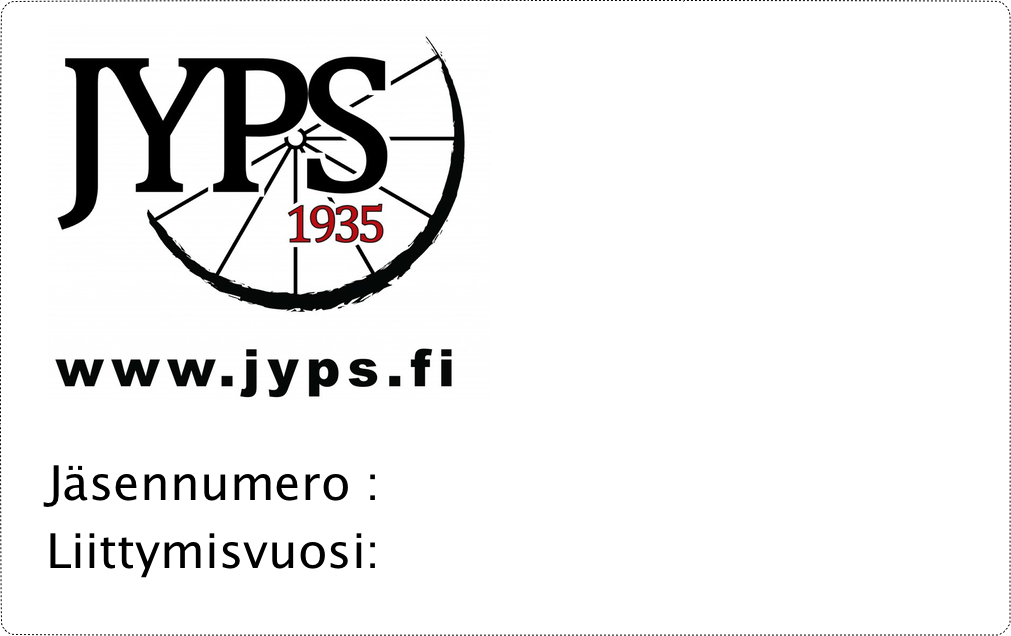
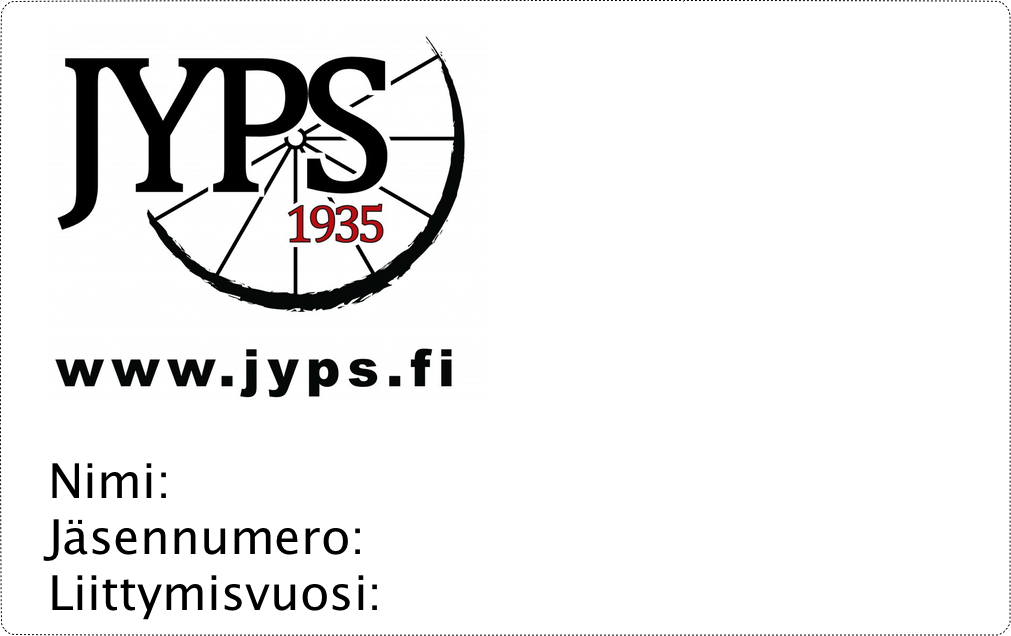
new memberfee stuff for year 2015

Changed region(s): [[0.0307, 0.717, 0.368, 0.9858]]

diff --git a/src/JYPS/RegisterBundle/Controller/MemberController.php b/src/JYPS/RegisterBundle/Controller/MemberController.php
@@ -185,8 +185,9 @@ private function generateMembershipCard(Member $member)
   $join_year = $member->getMembershipStartDate()->format('Y');
   $font = $this->get('kernel')->locateResource('@JYPSRegisterBundle/Resources/public/fonts/LucidaGrande.ttf');
   
-  imagettftext($base_image, 38, 0, 390, 505, $black, $font, $memberid);
-  imagettftext($base_image, 38, 0, 390, 570, $black, $font, $join_year);
+  imagettftext($base_image, 38, 0, 190, 500, $black, $font, $member->getFullName());
+  imagettftext($base_image, 38, 0, 390, 555, $black, $font, $memberid);
+  imagettftext($base_image, 38, 0, 390, 610, $black, $font, $join_year);
   
   /*qr code to image & serialize json for qr code*/ 
   $member_data = array('member_id'=>$member->getMemberId(),
@@ -465,10 +466,11 @@ if ($form->isValid()) {
   $em->persist($member);
   $em->persist($memberfee);
   $em->flush();
+
   $bankaccount = $this->getDoctrine()
   ->getRepository('JYPSRegisterBundle:SystemParameter')
   ->findOneBy(array('key' => 'BankAccount'));
-
+  
   //Send mail here, if user exits confirmation page too fast no mail is sent.
   //1) List join
   if($member->getEmail() != "") {
@@ -486,10 +488,10 @@ if ($form->isValid()) {
     ->attach(\Swift_Attachment::fromPath($membership_card))
     ->setBody($this->renderView(
       'JYPSRegisterBundle:Member:join_member_email_base.txt.twig',
-      array('member'=>$member,
-            'memberfee'=>$memberfee,
-            'bankaccount'=>$bankaccount,
-            'virtualbarcode'=>$memberfee->getVirtualBarCode())));
+       array('member'=>$member,
+              'memberfee'=>$memberfee,
+              'bankaccount'=>$bankaccount,
+              'virtualbarcode'=>$memberfee->getVirtualBarcode($bankaccount))));
 
     $this->get('mailer')->send($message);
     }

diff --git a/src/JYPS/RegisterBundle/Controller/MemberFeeController.php b/src/JYPS/RegisterBundle/Controller/MemberFeeController.php
@@ -142,10 +142,18 @@ class MemberFeeController extends Controller
 		$total_qty = 0;
 
 		foreach($members as $member) {
-		    /*from junior to adult member if needed*/
-
+		    
 			$memberFeeConfig = $member->getMemberType();
+			/*from junior to adult member if needed*/
+            if($memberFeeConfig->getMembertype() == 2 &&
+               date('Y') - $member->getBirthYear() > 17) {
+			   $member->setMemberType(1);
+			   $em = $this->getDoctrine()->getManager();
+			   $em->persist($member);
+			   $em->flush($member);
+            }
 
+			
 			//Do not create fees for membertypes where it's prevented
 			if( $memberFeeConfig->getCreatefees() == "JOIN_ONLY") {
 				continue;
@@ -194,5 +202,7 @@ class MemberFeeController extends Controller
 		}
 		return $this->render('JYPSRegisterBundle:MemberFee:memberfee_creation_finished.html.twig', array('total_amount'=>$total_amount, 'total_qty'=>$total_qty));
 	}
-
+	public function sendMemberFeeEmails(Request $request) {
+		
+	}
 }

diff --git a/src/JYPS/RegisterBundle/Entity/MemberFee.php b/src/JYPS/RegisterBundle/Entity/MemberFee.php
@@ -358,9 +358,9 @@ class MemberFee implements UserInterface, \Serializable
      *
      * @return string 
      */
-     public function getVirtualBarCode() {
-        $virtualbarcode = "4".substr($bankaccount->getStringValue(),6,strlen($bankaccount->getStringValue())).str_pad($memberfee->getFeeAmountWithVat(),strlen($memberfee->getFeeAmountWithVat())-6,'0',STR_PAD_LEFT).
-                    '00'.'000'.date_format($memberfee->getDueDate(),'ymd');
+     public function getVirtualBarCode($bankaccount) {
+        $virtualbarcode = "4".substr($bankaccount->getStringValue(),6,strlen($bankaccount->getStringValue())).str_pad($this->getFeeAmountWithVat(),strlen($this->getFeeAmountWithVat())-6,'0',STR_PAD_LEFT).
+                    '00'.'000'.date_format($this->getDueDate(),'ymd');
         return $virtualbarcode;
      }
 

diff --git a/src/JYPS/RegisterBundle/Entity/Member.php b/src/JYPS/RegisterBundle/Entity/Member.php
@@ -929,8 +929,8 @@ class Member implements UserInterface, \Serializable
     }
     
     public function closeMemberWithEmail($email_template, $subject, $from) {
-        $this->sendEmail($email_template,$subject,$from)        
-        $this->setMembershipEndDate(new \DateTime('NOW'));
+        $this->sendEmail($email_template,$subject,$from);        
+        $this->setMembershipEndDate(new \DateTime('now'));
         return true;
     }
 

diff --git a/src/JYPS/RegisterBundle/Command/CloseUnpaidMembersCommand.php b/src/JYPS/RegisterBundle/Command/CloseUnpaidMembersCommand.php
@@ -13,7 +13,7 @@ use JYPS\RegisterBundle\Entity\MemberFee;
 
 
 
-class TaskProcessorCommand extends ContainerAwareCommand
+class CloseUnpaidMembersCommand extends ContainerAwareCommand
 {
   protected function configure()
     {
